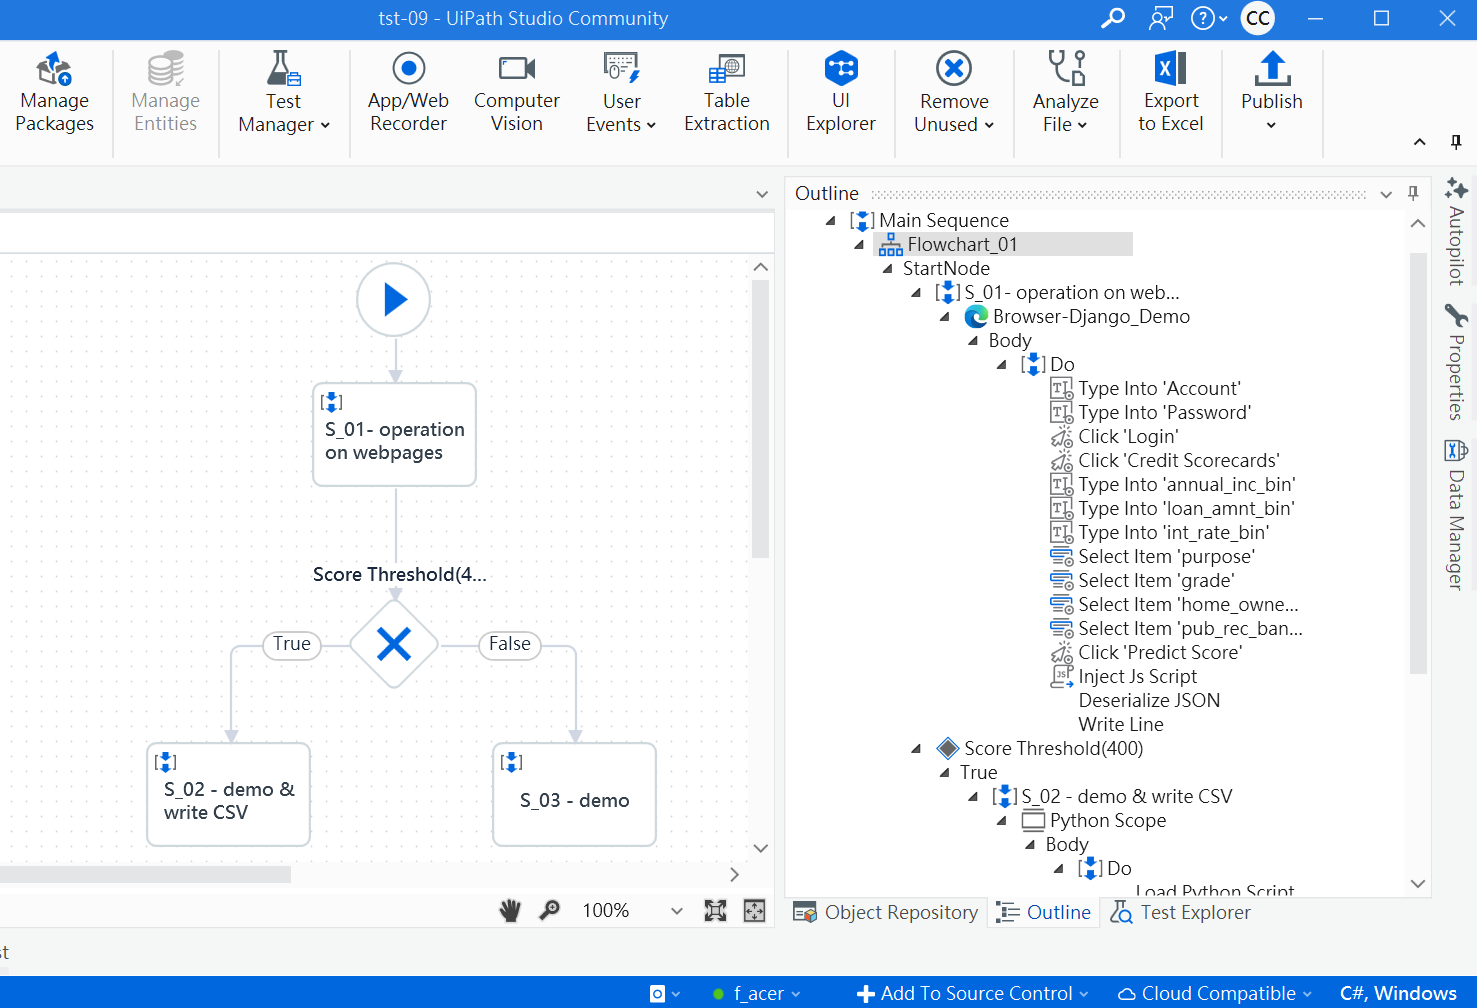
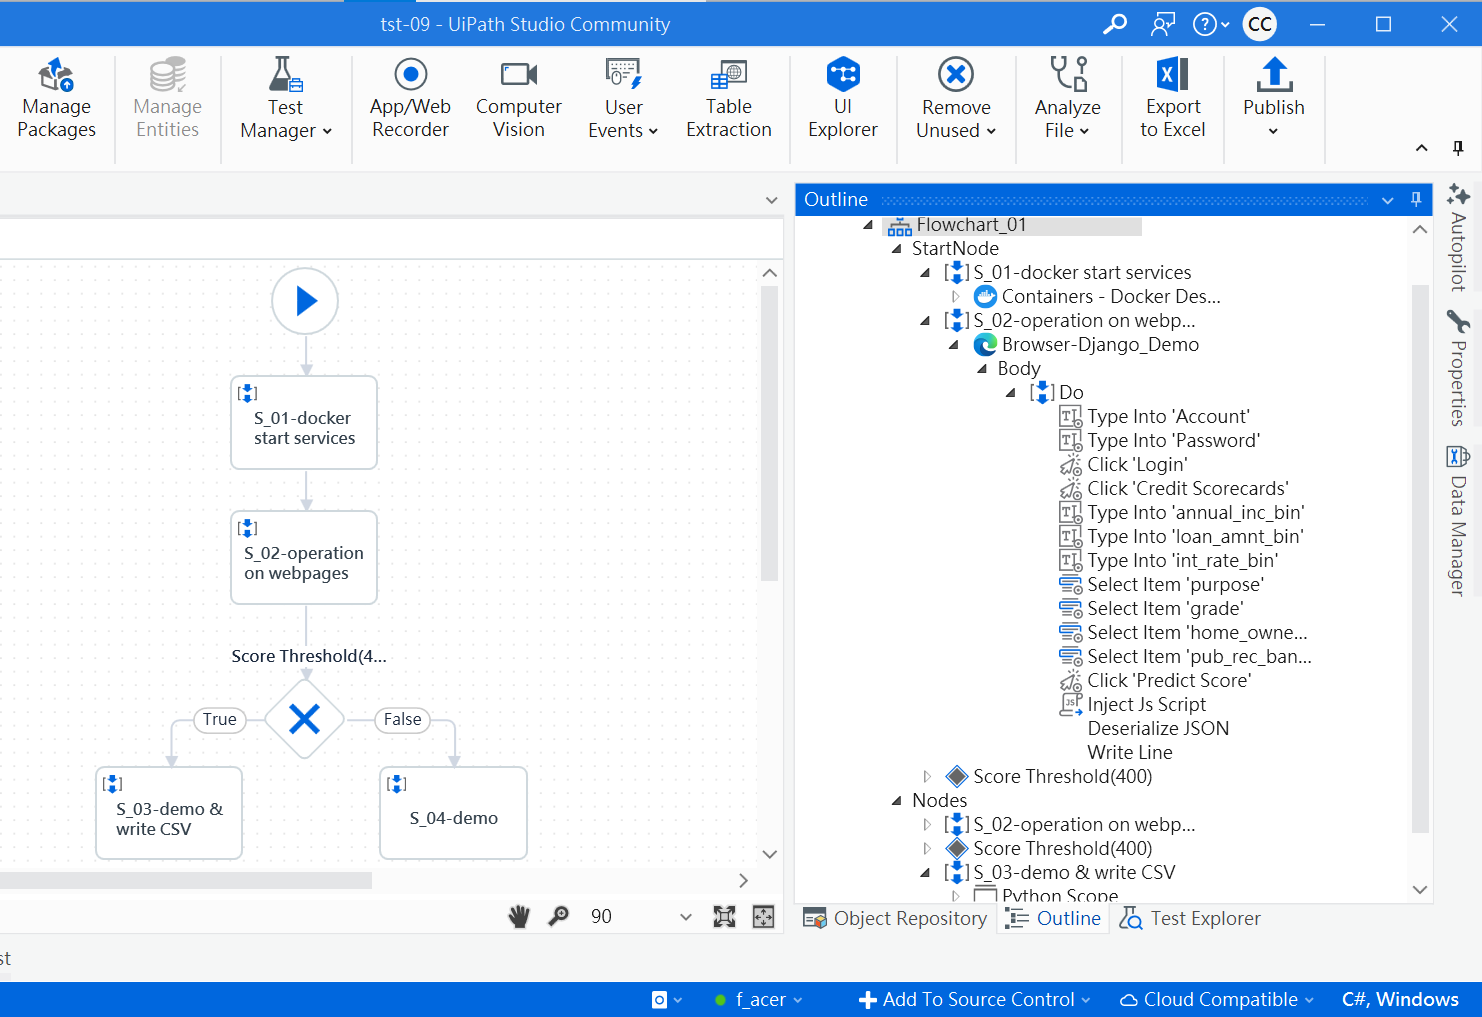
Revise xaml-file_02

diff --git a/Main.xaml b/Main.xaml
@@ -50,6 +50,9 @@
       <x:String>UiPath.Web</x:String>
       <x:String>UiPath.Platform.ResourceHandling</x:String>
       <x:String>System.Numerics</x:String>
+      <x:String>System.Management.Automation</x:String>
+      <x:String>UiPath.UIAutomationNext.Contracts</x:String>
+      <x:String>UiPath.UIAutomationNext.Models.CV</x:String>
     </sco:Collection>
   </TextExpression.NamespacesForImplementation>
   <TextExpression.ReferencesForImplementation>
@@ -116,6 +119,7 @@
       <AssemblyReference>UiPath.Web.Activities</AssemblyReference>
       <AssemblyReference>UiPath.Web</AssemblyReference>
       <AssemblyReference>System.Runtime.Numerics</AssemblyReference>
+      <AssemblyReference>System.Management.Automation</AssemblyReference>
     </sco:Collection>
   </TextExpression.ReferencesForImplementation>
   <sap:WorkflowViewStateService.ViewState>
@@ -124,13 +128,13 @@
       <x:Boolean x:Key="ShouldCollapseAll">False</x:Boolean>
     </scg:Dictionary>
   </sap:WorkflowViewStateService.ViewState>
-  <Sequence DisplayName="Main Sequence" sap:VirtualizedContainerService.HintSize="890.6666666666666,670.6666666666666" sap2010:WorkflowViewState.IdRef="Sequence_1">
+  <Sequence DisplayName="Main Sequence" sap:VirtualizedContainerService.HintSize="760.6666666666666,670.6666666666666" sap2010:WorkflowViewState.IdRef="Sequence_1">
     <sap:WorkflowViewStateService.ViewState>
       <scg:Dictionary x:TypeArguments="x:String, x:Object">
         <x:Boolean x:Key="IsExpanded">True</x:Boolean>
       </scg:Dictionary>
     </sap:WorkflowViewStateService.ViewState>
-    <Flowchart DisplayName="Flowchart_01" sap:VirtualizedContainerService.HintSize="773.3333333333334,422.76" sap2010:WorkflowViewState.IdRef="Flowchart_1">
+    <Flowchart DisplayName="Flowchart_01" sap:VirtualizedContainerService.HintSize="778,422.76" sap2010:WorkflowViewState.IdRef="Flowchart_1">
       <Flowchart.Variables>
         <Variable x:TypeArguments="x:String" Name="jsOutputs" />
         <Variable x:TypeArguments="njl:JObject" Name="jsObj" />
@@ -139,34 +143,26 @@
         <scg:Dictionary x:TypeArguments="x:String, x:Object">
           <x:Boolean x:Key="IsExpanded">True</x:Boolean>
           <x:Boolean x:Key="IsPinned">False</x:Boolean>
-          <av:Point x:Key="ShapeLocation">495,5</av:Point>
+          <av:Point x:Key="ShapeLocation">485,5</av:Point>
           <av:Size x:Key="ShapeSize">50,50</av:Size>
-          <av:PointCollection x:Key="ConnectorLocation">520,55 520,85</av:PointCollection>
+          <av:PointCollection x:Key="ConnectorLocation">510,55 510,85</av:PointCollection>
         </scg:Dictionary>
       </sap:WorkflowViewStateService.ViewState>
       <Flowchart.StartNode>
-        <x:Reference>__ReferenceID3</x:Reference>
+        <x:Reference>__ReferenceID4</x:Reference>
       </Flowchart.StartNode>
       <FlowStep x:Name="__ReferenceID3">
         <sap:WorkflowViewStateService.ViewState>
           <scg:Dictionary x:TypeArguments="x:String, x:Object">
-            <av:Point x:Key="ShapeLocation">465,85</av:Point>
+            <av:Point x:Key="ShapeLocation">455,185</av:Point>
             <av:Size x:Key="ShapeSize">110,70</av:Size>
-            <av:PointCollection x:Key="ConnectorLocation">520,155 520,230</av:PointCollection>
+            <av:PointCollection x:Key="ConnectorLocation">510,255 510,310</av:PointCollection>
           </scg:Dictionary>
         </sap:WorkflowViewStateService.ViewState>
-        <Sequence DisplayName="S_01- operation on webpages" sap:VirtualizedContainerService.HintSize="518,2540.6666666666665" sap2010:WorkflowViewState.IdRef="Sequence_3">
+        <Sequence DisplayName="S_02-operation on webpages" sap:VirtualizedContainerService.HintSize="110,70" sap2010:WorkflowViewState.IdRef="Sequence_3">
           <Sequence.Variables>
-            <Variable x:TypeArguments="x:String" Name="annual_inc_bin">
-              <Variable.Default>
-                <Literal x:TypeArguments="x:String">180000</Literal>
-              </Variable.Default>
-            </Variable>
-            <Variable x:TypeArguments="x:String" Name="loan_amnt_bin">
-              <Variable.Default>
-                <Literal x:TypeArguments="x:String">20000</Literal>
-              </Variable.Default>
-            </Variable>
+            <Variable x:TypeArguments="x:String" Default="180000" Name="annual_inc_bin" />
+            <Variable x:TypeArguments="x:String" Default="20000" Name="loan_amnt_bin" />
             <Variable x:TypeArguments="x:String" Default="5.88" Name="int_rate_bin" />
             <Variable x:TypeArguments="x:String" Default="user01" Name="username_01" />
             <Variable x:TypeArguments="p:PythonObject" Name="scriptOutput" />
@@ -540,21 +536,21 @@
             <sap:WorkflowViewStateService.ViewState>
               <scg:Dictionary x:TypeArguments="x:String, x:Object">
                 <x:Boolean x:Key="IsExpanded">True</x:Boolean>
-                <av:Point x:Key="ShapeLocation">490,230</av:Point>
+                <av:Point x:Key="ShapeLocation">480,310</av:Point>
                 <av:Size x:Key="ShapeSize">60,60</av:Size>
-                <av:PointCollection x:Key="TrueConnector">490,260 410,260 410,325</av:PointCollection>
-                <av:PointCollection x:Key="FalseConnector">550,260 640,260 640,325</av:PointCollection>
+                <av:PointCollection x:Key="TrueConnector">480,340 410,340 410,375</av:PointCollection>
+                <av:PointCollection x:Key="FalseConnector">540,340 620,340 620,375</av:PointCollection>
               </scg:Dictionary>
             </sap:WorkflowViewStateService.ViewState>
             <FlowDecision.True>
               <FlowStep x:Name="__ReferenceID1">
                 <sap:WorkflowViewStateService.ViewState>
                   <scg:Dictionary x:TypeArguments="x:String, x:Object">
-                    <av:Point x:Key="ShapeLocation">355,325</av:Point>
+                    <av:Point x:Key="ShapeLocation">355,375</av:Point>
                     <av:Size x:Key="ShapeSize">110,70</av:Size>
                   </scg:Dictionary>
                 </sap:WorkflowViewStateService.ViewState>
-                <Sequence DisplayName="S_02 - demo &amp; write CSV" sap:VirtualizedContainerService.HintSize="110,70" sap2010:WorkflowViewState.IdRef="Sequence_6">
+                <Sequence DisplayName="S_03-demo &amp; write CSV" sap:VirtualizedContainerService.HintSize="110,70" sap2010:WorkflowViewState.IdRef="Sequence_6">
                   <Sequence.Variables>
                     <Variable x:TypeArguments="p:PythonObject" Name="scriptOutput" />
                     <Variable x:TypeArguments="x:Object" Name="finalOutput" />
@@ -631,11 +627,11 @@
               <FlowStep x:Name="__ReferenceID2">
                 <sap:WorkflowViewStateService.ViewState>
                   <scg:Dictionary x:TypeArguments="x:String, x:Object">
-                    <av:Point x:Key="ShapeLocation">585,325</av:Point>
+                    <av:Point x:Key="ShapeLocation">565,375</av:Point>
                     <av:Size x:Key="ShapeSize">110,70</av:Size>
                   </scg:Dictionary>
                 </sap:WorkflowViewStateService.ViewState>
-                <Sequence DisplayName="S_03 - demo" sap:VirtualizedContainerService.HintSize="110,70" sap2010:WorkflowViewState.IdRef="Sequence_7">
+                <Sequence DisplayName="S_04-demo" sap:VirtualizedContainerService.HintSize="110,70" sap2010:WorkflowViewState.IdRef="Sequence_7">
                   <Sequence.Variables>
                     <Variable x:TypeArguments="p:PythonObject" Name="scriptOutput" />
                     <Variable x:TypeArguments="p:PythonObject" Name="defOutput" />
@@ -714,6 +710,61 @@
       <x:Reference>__ReferenceID0</x:Reference>
       <x:Reference>__ReferenceID1</x:Reference>
       <x:Reference>__ReferenceID2</x:Reference>
+      <FlowStep x:Name="__ReferenceID4" sap2010:WorkflowViewState.IdRef="FlowStep_1">
+        <sap:WorkflowViewStateService.ViewState>
+          <scg:Dictionary x:TypeArguments="x:String, x:Object">
+            <av:Point x:Key="ShapeLocation">455,85</av:Point>
+            <av:Size x:Key="ShapeSize">110,70</av:Size>
+            <av:PointCollection x:Key="ConnectorLocation">510,155 510,185</av:PointCollection>
+          </scg:Dictionary>
+        </sap:WorkflowViewStateService.ViewState>
+        <Sequence DisplayName="S_01-docker start services" sap:VirtualizedContainerService.HintSize="110,70" sap2010:WorkflowViewState.IdRef="Sequence_13">
+          <sap:WorkflowViewStateService.ViewState>
+            <scg:Dictionary x:TypeArguments="x:String, x:Object">
+              <x:Boolean x:Key="IsExpanded">True</x:Boolean>
+              <x:Boolean x:Key="IsPinned">False</x:Boolean>
+            </scg:Dictionary>
+          </sap:WorkflowViewStateService.ViewState>
+          <uix:NApplicationCard AttachMode="ByInstance" DisplayName="Containers - Docker Desktop" sap:VirtualizedContainerService.HintSize="484,718" sap2010:WorkflowViewState.IdRef="NApplicationCard_4" ScopeGuid="1eb5ab1a-97bc-4ea3-9e5a-127d28220039" Version="V2">
+            <uix:NApplicationCard.Body>
+              <ActivityAction x:TypeArguments="x:Object">
+                <ActivityAction.Argument>
+                  <DelegateInArgument x:TypeArguments="x:Object" Name="WSSessionData" />
+                </ActivityAction.Argument>
+                <Sequence DisplayName="Do" sap:VirtualizedContainerService.HintSize="450,402.6666666666667" sap2010:WorkflowViewState.IdRef="Sequence_14">
+                  <sap:WorkflowViewStateService.ViewState>
+                    <scg:Dictionary x:TypeArguments="x:String, x:Object">
+                      <x:Boolean x:Key="IsExpanded">True</x:Boolean>
+                    </scg:Dictionary>
+                  </sap:WorkflowViewStateService.ViewState>
+                  <Delay Duration="00:00:03" sap:VirtualizedContainerService.HintSize="416,122.66666666666667" sap2010:WorkflowViewState.IdRef="Delay_4" />
+                  <uix:NClick ActivateBefore="True" ClickType="Single" DisplayName="Click 'push button Start'" sap:VirtualizedContainerService.HintSize="416,217.33333333333334" sap2010:WorkflowViewState.IdRef="NClick_6" KeyModifiers="None" MouseButton="Left" ScopeIdentifier="1eb5ab1a-97bc-4ea3-9e5a-127d28220039" Version="V4">
+                    <uix:NClick.Target>
+                      <uix:TargetAnchorable CVScreenId="093b94a9-8913-4630-983d-6be8c6990fc2" ContentHash="xN8FoItOVUegPVVLej-CLw" DesignTimeRectangle="1631, 509, 48, 49" DesignTimeScaleFactor="1.5" ElementType="Button" FullSelectorArgument="&lt;ctrl name='Containers - Docker Desktop' role='document' /&gt;&lt;ctrl name='Start Show container actions Delete' role='cell' /&gt;&lt;ctrl name='Start' role='push button' /&gt;" FuzzySelectorArgument="&lt;ctrl name='Containers - Docker Desktop' role='document' /&gt;&lt;ctrl name='Start Show container actions Delete' role='cell' /&gt;&lt;ctrl name='Start' role='push button' automationid='' /&gt;" Guid="d009b53f-e279-4dcf-ac8d-74033f2cf50a" InformativeScreenshot="7853b27c72dc4599e9f7882e14a85668.png" Reference="y8vczlmXaUOvQUC-1NX9Rg/6y6Ek2v0Kkm4AMEMBhyF_w" ScopeSelectorArgument="&lt;wnd app='docker desktop.exe' cls='Chrome_WidgetWin_1' title='Containers - Docker Desktop' /&gt;" SearchSteps="Selector, FuzzySelector" Version="V4" Visibility="Interactive" />
+                    </uix:NClick.Target>
+                    <uix:NClick.VerifyOptions>
+                      <uix:VerifyExecutionOptions DisplayName="{x:Null}" Mode="Appears">
+                        <uix:VerifyExecutionOptions.Retry>
+                          <InArgument x:TypeArguments="x:Boolean" />
+                        </uix:VerifyExecutionOptions.Retry>
+                        <uix:VerifyExecutionOptions.Timeout>
+                          <InArgument x:TypeArguments="x:Double" />
+                        </uix:VerifyExecutionOptions.Timeout>
+                      </uix:VerifyExecutionOptions>
+                    </uix:NClick.VerifyOptions>
+                  </uix:NClick>
+                </Sequence>
+              </ActivityAction>
+            </uix:NApplicationCard.Body>
+            <uix:NApplicationCard.TargetApp>
[1 lines of base64/hex data omitted]
+            </uix:NApplicationCard.TargetApp>
+          </uix:NApplicationCard>
+        </Sequence>
+        <FlowStep.Next>
+          <x:Reference>__ReferenceID3</x:Reference>
+        </FlowStep.Next>
+      </FlowStep>
     </Flowchart>
   </Sequence>
 </Activity>

diff --git a/README.md b/README.md
@@ -11,11 +11,11 @@ UiPath Studio Desktop、UiPath Orchestrator Cloud、JavaScript、Python<br><br>
 #### **Ⅲ. 說明**
 1.流程架構<br>
 
-在UiPath Studio開啓Process，創建1個Flowchart，其中新增3個Sequence，於之間建立1個Flow Decision，如【圖01】左側所示，Sequence中的Activity如【圖01】右側的Outline所示。其內容說如下：<br>
+在UiPath Studio開啓Process，創建1個Flowchart，其中新增4個Sequence，於之間建立1個Flow Decision，如【圖01】左側所示，Sequence中的Activity如【圖01】右側的Outline所示。其內容說如下：<br>
 
-(1)第1個Sequence「S_01 - operation on webpages」主要使用「Use Application/Browser」、「inject Js Script」。第2、3個Sequence「S_02 - demo & write CSV」、「S_03 - demo」僅用「Python Scope」。<br>
+(1)第1個Sequence「S_01-docker start services」及第2個Sequence「S_02-operation on webpages」主要使用「Use Application/Browser」。第3、4個Sequence「S_03-demo & write CSV」、「S_04-demo」僅用「Python Scope」。<br>
 
-(2)第1個Sequence「S_01 - operation on webpages」執行結果交由Flow Decision「Score Threshold」作判斷，預測結果其中之一 score 超過門檻值(設定為 400)則執行「S_02 - demo & write CSV」，否則執行「S_03 - demo」。<br>
+(2)第1個Sequence「S_01-docker start services」先開啟服務，接著第2個Sequence「S_02-operation on webpages」執行結果交由Flow Decision「Score Threshold」作判斷，超過門檻值執行「S_03-demo & write CSV」，否則執行「S_04-demo」。<br>
 
 【 圖01：UiPath Studio - 建立Process 】<br>
 ![avatar](./README_png/page_process_01.png)<br><br>
@@ -23,20 +23,23 @@ UiPath Studio Desktop、UiPath Orchestrator Cloud、JavaScript、Python<br><br>
 
 2.流程步驟<br>
 
-(1)第1個Sequence「S_01 - operation on webpages」<br>
-UiPath開啟瀏覽器(Microsoft Edge)，到一個網站( 詳見 [專案django_demo_01](<https://github.com/qinglian1105>) ) ，接著輸入帳密登入進入首頁後，於左側side menu點選「信用評分預測(Credit Scorecards)」選單，即進入主要目標頁面如【圖02】所示，填完Form的 7 個變數資料，按「Predict Score」鍵後，將於下方以藍色文字及儀表盤呈現預測結果(分數、評級)，由JavaScript程式擷取輸入資料及預測結果，門檻值即預測結果的分數(score)。<br>
+(1)第1個Sequence「S_01-docker start services」<br>
+UiPath開啟應用程式「Docker Desktop」，啟動相關服務，如：前端網頁、後端API及資料庫…等( 詳見 [專案django_demo_01](<https://github.com/qinglian1105>) )。<br>
+
+(2)第2個Sequence「S_02-operation on webpages」<br>
+UiPath開啟瀏覽器(Microsoft Edge)，到一個網站( 127.0.0.1:7000/login，如上述專案 ) ，接著輸入帳密登入進入首頁後，於左側side menu點選「信用評分預測(Credit Scorecards)」選單，即進入主要目標頁面如【圖02】所示，填完Form的 7 個變數資料，按「Predict Score」鍵後，將於下方以藍色文字及儀表盤呈現預測結果(分數、評級)，由JavaScript程式擷取輸入資料及預測結果，門檻值即預測結果的分數(score)，設定為 400分。<br>
 
 【 圖02：主要操作及擷取資料的頁面 】
 ![avatar](./README_png/page_scorecards.png)<br><br>
 
-(2)第2個Sequence「S_02 - demo & write CSV」<br>
-超過門檻值(400)，則執行本Sequence，Python程式將編輯內容及寫入CSV檔，然後返回予Message Box顯示如【圖03】所示，按「確定」後關閉網頁，完成整個Process自動化。<br>
+(3)第3個Sequence「S_03-demo & write CSV」<br>
+本例預測分數 570，超過門檻值，則執行本Sequence，Python程式將編輯內容及寫入CSV檔，然後返回予Message Box顯示，如【圖03】所示，按「確定」後關閉網頁，完成整個Process自動化。<br>
 
 【 圖03：Process執行最後畫面 - 高於門檻值 】
 ![avatar](./README_png/page_over_400.png)<br><br>
 
-(3)第3個Sequence「S_03 - demo」<br>
-未達門檻值，則執行本Sequence，同樣由Python程式將處理內容，但不執行寫入CSV檔，然後返回予Message Box顯示如【圖04】所示，按「確定」後關閉網頁，完成整個Process自動化。
+(4)第4個Sequence「S_04-demo」<br>
+本例預測分數 388，未達門檻值，則執行本Sequence，同樣由Python程式將處理內容，但 <u>不執行寫入CSV檔</u> ，然後返回予Message Box顯示如【圖04】所示，按「確定」後關閉網頁，完成整個Process自動化。
 <br>
 
 【 圖04：Process執行最後畫面 - 低於門檻值 】
@@ -45,9 +48,10 @@ UiPath開啟瀏覽器(Microsoft Edge)，到一個網站( 詳見 [專案django_de
 
 建構本Process之相關檔案，詳見UiPath流程主檔「Main.xaml」、JavaScript程式檔「demo_injectJS.js」、Python程式檔「processing_msg.py」及資料產出檔「predict_report.csv」。<br> 
 
-以上，一個簡單Web Automation例子展現UiPath與JavaScript、Python整合。<br><br>
+__以上，一個簡單Web Automation例子展現UiPath與JavaScript、Python整合。__
+<br><br>
 
-3.Orchestrator Cloud操作<br>
+3.操作 UiPath Orchestrator Cloud<br>
 
 (1)將Process發佈(Publish)到 Orchestrator Cloud後，設定Time Trigger，名稱為「tst-09_cron_02」，選擇Account、Machine、Hostname，並直接以Cron格式設定執行時間，如【圖05】所示。<br>
 
@@ -61,7 +65,7 @@ UiPath開啟瀏覽器(Microsoft Edge)，到一個網站( 詳見 [專案django_de
 
 另外，畫面中可見為使用 MacOS電腦，登入 Orchestrator Cloud作觸發設定，待設定時間來臨將自動於另一台電腦 Windows 10上( 如上述【圖03】及【圖04】)，依序完成Process各個步驟。<br>
 
-綜上所述，Process發佈於 UiPath Orchestrator Cloud 設定時間遠端自動執行。
+__綜上所述，Process發佈於 UiPath Orchestrator Cloud 設定時間遠端自動執行。__
 <br><br>
 
 ---
